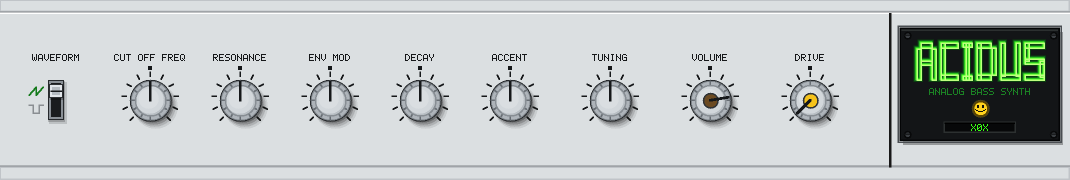
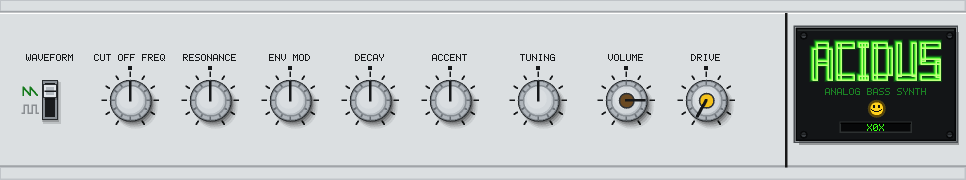
GUI: 303 dial hours, tighter knob spacing, 303 waveform symbols
- Knob dials (both skins) put their 11 ticks on the clock hours from
  7 o'clock to 5 o'clock, a 300 degree sweep as on the 303, and the
  pointers turn over the same range.
- Knobs sit 80 px apart instead of 90 (groups a little further), so
  the panel shrinks from 1070 to 966 px wide. The size is now one
  constant, GuiWindow::kDefaultWidth/kDefaultHeight.
- The waveform switch's symbols are drawn as printed on the 303: a saw
  that rises straight up and ramps down, twice, and a pulse of two
  humps.

Claude-Session: https://claude.ai/code/session_018QH8RkxMHhUAMvdq6H6Ar2

diff --git a/src/gui/GuiWindow.cpp b/src/gui/GuiWindow.cpp
@@ -35,30 +35,30 @@ void GuiWindow::initControls() {
     controls_.clear();
 
     // Waveform selector leads the panel, rendered as a symbolic saw/square switch.
-    controls_.push_back({ PARAM_WAVEFORM, "WAVEFORM", ControlType::ToggleSwitch, 56, 100, 17, 0.0, 1.0, 0.0, true });
+    controls_.push_back({ PARAM_WAVEFORM, "WAVEFORM", ControlType::ToggleSwitch, 50, 100, 17, 0.0, 1.0, 0.0, true });
 
     // 5 Main Knobs, labelled as on the TB-303 panel.
-    controls_.push_back({ PARAM_CUTOFF, "CUT OFF FREQ", ControlType::Knob, 150, 100, 20, 0.0, 1.0, 0.5, false });
-    controls_.push_back({ PARAM_RESONANCE, "RESONANCE", ControlType::Knob, 240, 100, 20, 0.0, 1.0, 0.5, false });
-    controls_.push_back({ PARAM_ENV_MOD, "ENV MOD", ControlType::Knob, 330, 100, 20, 0.0, 1.0, 0.5, false });
-    controls_.push_back({ PARAM_DECAY, "DECAY", ControlType::Knob, 420, 100, 20, 0.0, 1.0, 0.5, false });
-    controls_.push_back({ PARAM_ACCENT, "ACCENT", ControlType::Knob, 510, 100, 20, 0.0, 1.0, 0.5, false });
+    controls_.push_back({ PARAM_CUTOFF, "CUT OFF FREQ", ControlType::Knob, 130, 100, 20, 0.0, 1.0, 0.5, false });
+    controls_.push_back({ PARAM_RESONANCE, "RESONANCE", ControlType::Knob, 210, 100, 20, 0.0, 1.0, 0.5, false });
+    controls_.push_back({ PARAM_ENV_MOD, "ENV MOD", ControlType::Knob, 290, 100, 20, 0.0, 1.0, 0.5, false });
+    controls_.push_back({ PARAM_DECAY, "DECAY", ControlType::Knob, 370, 100, 20, 0.0, 1.0, 0.5, false });
+    controls_.push_back({ PARAM_ACCENT, "ACCENT", ControlType::Knob, 450, 100, 20, 0.0, 1.0, 0.5, false });
 
     // Tuning trim, a real front-panel-equivalent control (TB303_RESEARCH_
     // COMPENDIUM.md documents a 50 kΩ "B" Tuning pot alongside Cutoff/Env
     // Mod/Decay/Accent) -- range matches the hardware's documented ±700
     // cent trim travel, for nudging the plugin into tune against a
     // reference recording that's itself slightly off-pitch.
-    controls_.push_back({ PARAM_TUNE, "TUNING", ControlType::Knob, 610, 100, 20, -700.0, 700.0, 0.0, false });
+    controls_.push_back({ PARAM_TUNE, "TUNING", ControlType::Knob, 538, 100, 20, -700.0, 700.0, 0.0, false });
 
     // Panel order follows the signal: the 303's Volume, then the pedal it
     // drives. Master Volume Knob, set apart with its own accent color.
-    controls_.push_back({ PARAM_VOLUME, "VOLUME", ControlType::Knob, 710, 100, 20, 0.0, 1.0, 0.8, false });
+    controls_.push_back({ PARAM_VOLUME, "VOLUME", ControlType::Knob, 626, 100, 20, 0.0, 1.0, 0.8, false });
     controls_.back().accentColor = 0xFF6B4A22; // warm amber, distinct from the graphite knobs
 
     // MXR Distortion+ drive, capped in the pedal's yellow. Fully
     // counter-clockwise (0.0) bypasses the pedal entirely.
-    controls_.push_back({ PARAM_DRIVE, "DRIVE", ControlType::Knob, 810, 100, 20, 0.0, 1.0, 0.0, false });
+    controls_.push_back({ PARAM_DRIVE, "DRIVE", ControlType::Knob, 706, 100, 20, 0.0, 1.0, 0.0, false });
     controls_.back().accentColor = 0xFFF5C21B; // MXR Distortion+ yellow, marks the pedal
 
     updateKnobValuesFromPlugin();
@@ -886,8 +886,8 @@ const clap_plugin_gui_t g_acidusGuiExtension = {
     },
     [](const clap_plugin_t* plugin, uint32_t* width, uint32_t* height) -> bool {
         if (!width || !height) return false;
-        *width = 1070;
-        *height = 180;
+        *width = GuiWindow::kDefaultWidth;
+        *height = GuiWindow::kDefaultHeight;
         return true;
     },
     [](const clap_plugin_t* plugin) -> bool {
@@ -898,8 +898,8 @@ const clap_plugin_gui_t g_acidusGuiExtension = {
     },
     [](const clap_plugin_t* plugin, uint32_t* width, uint32_t* height) -> bool {
         if (!width || !height) return false;
-        *width = 1070;
-        *height = 180;
+        *width = GuiWindow::kDefaultWidth;
+        *height = GuiWindow::kDefaultHeight;
         return true;
     },
     [](const clap_plugin_t* plugin, uint32_t width, uint32_t height) -> bool {

diff --git a/src/gui/RetroSkin.cpp b/src/gui/RetroSkin.cpp
@@ -22,20 +22,25 @@ void drawLabel(Graphics& g, const Font& font, const Control& ctrl, int top) {
     g.drawText(font, ctrl.label, ctrl.x - textW / 2, top, kInk, kLabelTextScale);
 }
 
-// A rising ramp with a sharp vertical drop, drawn twice across the icon's width.
+// The 303 panel's saw: a vertical rise, then a ramp down, twice.
 void drawSawIcon(Graphics& g, int cx, int cy, uint32_t color) {
-    g.drawLine(cx - 7, cy + 4, cx, cy - 4, color, 1);
-    g.drawLine(cx, cy - 4, cx, cy + 4, color, 1);
-    g.drawLine(cx, cy + 4, cx + 7, cy - 4, color, 1);
+    g.drawLine(cx - 7, cy + 4, cx - 7, cy - 4, color, 1);
+    g.drawLine(cx - 7, cy - 4, cx, cy + 4, color, 1);
+    g.drawLine(cx, cy + 4, cx, cy - 4, color, 1);
+    g.drawLine(cx, cy - 4, cx + 7, cy + 4, color, 1);
 }
 
-// A square wave: high, drop, low, rise, high.
+// The 303 panel's pulse: two humps on a baseline.
 void drawSquareIcon(Graphics& g, int cx, int cy, uint32_t color) {
-    g.drawLine(cx - 7, cy - 4, cx - 3, cy - 4, color, 1);
-    g.drawLine(cx - 3, cy - 4, cx - 3, cy + 4, color, 1);
-    g.drawLine(cx - 3, cy + 4, cx + 3, cy + 4, color, 1);
-    g.drawLine(cx + 3, cy + 4, cx + 3, cy - 4, color, 1);
-    g.drawLine(cx + 3, cy - 4, cx + 7, cy - 4, color, 1);
+    g.drawLine(cx - 8, cy + 4, cx - 6, cy + 4, color, 1);
+    g.drawLine(cx - 6, cy + 4, cx - 6, cy - 4, color, 1);
+    g.drawLine(cx - 6, cy - 4, cx - 2, cy - 4, color, 1);
+    g.drawLine(cx - 2, cy - 4, cx - 2, cy + 4, color, 1);
+    g.drawLine(cx - 2, cy + 4, cx + 2, cy + 4, color, 1);
+    g.drawLine(cx + 2, cy + 4, cx + 2, cy - 4, color, 1);
+    g.drawLine(cx + 2, cy - 4, cx + 6, cy - 4, color, 1);
+    g.drawLine(cx + 6, cy - 4, cx + 6, cy + 4, color, 1);
+    g.drawLine(cx + 6, cy + 4, cx + 8, cy + 4, color, 1);
 }
 
 // Soft drop shadow: several translucent discs, offset down-right, so the
@@ -85,9 +90,10 @@ void RetroSkin::drawKnob(Graphics& g, const Control& ctrl, const Font& font) {
     const int cy = ctrl.y;
     const int r = ctrl.radius;
 
-    // Dial: 11 ticks from 7 o'clock to 5 o'clock, and the index square.
-    const double startAngle = 135.0 * kPi / 180.0;
-    const double totalAngle = 270.0 * kPi / 180.0;
+    // Dial: 11 ticks on the clock hours from 7 o'clock to 5 o'clock (a
+    // 300 degree sweep, as on the 303), and the index square.
+    const double startAngle = 120.0 * kPi / 180.0;
+    const double totalAngle = 300.0 * kPi / 180.0;
     for (int i = 0; i < 11; ++i) {
         double a = startAngle + totalAngle * i / 10.0;
         int x1 = cx + static_cast<int>(std::lround(std::cos(a) * (r + 4)));

diff --git a/src/gui/modern/ModernSkin.cpp b/src/gui/modern/ModernSkin.cpp
@@ -255,8 +255,9 @@ void paintPanel(Graphics& g, int width, int height, int dividerX) {
 
 // --- Knob --------------------------------------------------------------------
 
-constexpr float kStartAngle = 135.f * kPi / 180.f;   // 7 o'clock
-constexpr float kTotalAngle = 270.f * kPi / 180.f;
+// The 303's dial: 7 o'clock to 5 o'clock on the clock hours, 300 degrees.
+constexpr float kStartAngle = 120.f * kPi / 180.f;   // 7 o'clock
+constexpr float kTotalAngle = 300.f * kPi / 180.f;
 constexpr int kGripRidges = 30;
 
 void drawKnobDial(Graphics& g, float cx, float cy, float r) {
@@ -474,14 +475,15 @@ public:
         const uint32_t active = 0xFF157A1C, dim = 0xC0707478;
         const uint32_t saw = isSquare ? dim : active, sq = isSquare ? active : dim;
         const float ix = cx - 21.f, sy = cy - 9.f, qy = cy + 9.f;
-        drawLineAA(g, ix - 7, sy + 4, ix, sy - 4, 1.3f, saw);
-        drawLineAA(g, ix, sy - 4, ix, sy + 4, 1.3f, saw);
-        drawLineAA(g, ix, sy + 4, ix + 7, sy - 4, 1.3f, saw);
-        drawLineAA(g, ix - 7, qy - 4, ix - 3, qy - 4, 1.3f, sq);
-        drawLineAA(g, ix - 3, qy - 4, ix - 3, qy + 4, 1.3f, sq);
-        drawLineAA(g, ix - 3, qy + 4, ix + 3, qy + 4, 1.3f, sq);
-        drawLineAA(g, ix + 3, qy + 4, ix + 3, qy - 4, 1.3f, sq);
-        drawLineAA(g, ix + 3, qy - 4, ix + 7, qy - 4, 1.3f, sq);
+        // As printed on the 303: the saw rises straight up and ramps down,
+        // twice; the pulse is two humps on a baseline.
+        const float sawPts[][2] = { { -7, 4 }, { -7, -4 }, { 0, 4 }, { 0, -4 }, { 7, 4 } };
+        const float sqPts[][2] = { { -8, 4 }, { -6, 4 }, { -6, -4 }, { -2, -4 }, { -2, 4 }, { 2, 4 },
+                                   { 2, -4 }, { 6, -4 }, { 6, 4 }, { 8, 4 } };
+        for (int i = 0; i + 1 < 5; ++i)
+            drawLineAA(g, ix + sawPts[i][0], sy + sawPts[i][1], ix + sawPts[i + 1][0], sy + sawPts[i + 1][1], 1.3f, saw);
+        for (int i = 0; i + 1 < 10; ++i)
+            drawLineAA(g, ix + sqPts[i][0], qy + sqPts[i][1], ix + sqPts[i + 1][0], qy + sqPts[i + 1][1], 1.3f, sq);
         store(g);
     }
 

diff --git a/src/gui_test_main.cpp b/src/gui_test_main.cpp
@@ -56,8 +56,8 @@ int main() {
     mockOutList.ctx = &testCtx;
     mockOutList.try_push = TestOutEvents::tryPush;
 
-    gui.handleMouseDown(140, 100, false);
-    gui.handleMouseDrag(140, 20, false); // Drag up 80 pixels
+    gui.handleMouseDown(130, 100, false);
+    gui.handleMouseDrag(130, 20, false); // Drag up 80 pixels
     gui.handleMouseUp();
 
     double valNormal = 0.0;
@@ -73,8 +73,8 @@ int main() {
     assert(testCtx.paramIds.front() == acidus::PARAM_CUTOFF);
     std::cout << "GUI output event gesture queue test passed successfully! Events recorded: " << testCtx.types.size() << std::endl;
 
-    gui.handleMouseDown(232, 100, true); // Resonance knob at (232, 100) with Shift
-    gui.handleMouseDrag(232, 20, true);  // Drag up 80 pixels with Shift
+    gui.handleMouseDown(210, 100, true); // Resonance knob at (210, 100) with Shift
+    gui.handleMouseDrag(210, 20, true);  // Drag up 80 pixels with Shift
     gui.handleMouseUp();
 
     double valFine = 0.0;
@@ -83,10 +83,10 @@ int main() {
     assert(std::abs(valFine - 0.70) < 0.01);
 
     // Double-click on a knob resets it to its default, without dragging.
-    gui.handleMouseDown(232, 100, false);
+    gui.handleMouseDown(210, 100, false);
     gui.handleMouseUp();
-    gui.handleMouseDown(232, 100, false);
-    gui.handleMouseDrag(232, 20, false);   // ignored: the double-click started no drag
+    gui.handleMouseDown(210, 100, false);
+    gui.handleMouseDrag(210, 20, false);   // ignored: the double-click started no drag
     gui.handleMouseUp();
     double valReset = 0.0, resDefault = -1.0;
     plugin.paramsValue(acidus::PARAM_RESONANCE, &valReset);

diff --git a/src/gui/GuiWindow.hpp b/src/gui/GuiWindow.hpp
@@ -38,6 +38,10 @@ struct Control {
 
 class GuiWindow {
 public:
+    // The panel's fixed size, as reported to the host.
+    static constexpr uint32_t kDefaultWidth = 966;
+    static constexpr uint32_t kDefaultHeight = 180;
+
     explicit GuiWindow(AcidusClap* plugin);
     ~GuiWindow();
 
@@ -89,8 +93,8 @@ public:
 
 private:
     AcidusClap* plugin_{nullptr};
-    uint32_t width_{1070};
-    uint32_t height_{180};
+    uint32_t width_{kDefaultWidth};
+    uint32_t height_{kDefaultHeight};
 
     // The host's UI thread (show/setSize/...) and the window's own event
     // thread both render and handle input; this serialises them.

diff --git a/src/robustness_test_main.cpp b/src/robustness_test_main.cpp
@@ -326,7 +326,7 @@ static void testGui() {
     gui.renderFrame();
     gui.advanceAnimation(std::numeric_limits<double>::quiet_NaN());
     gui.advanceAnimation(1.0e300);
-    gui.setSize(1070, 180);
+    gui.setSize(acidus::GuiWindow::kDefaultWidth, acidus::GuiWindow::kDefaultHeight);
     gui.renderFrame();
     const int coords[] = { -1000000, -1, 0, 5000, 1000000, 2147483647, -2147483647 };
     for (int x : coords) for (int y : coords) {
